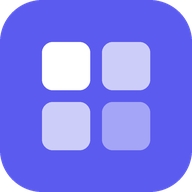
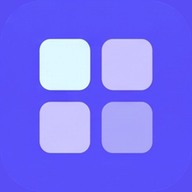
Atelier 3.1.1 : nouvelles icônes

diff --git a/index.html b/index.html
@@ -8,7 +8,7 @@
 <meta name="theme-color" content="#0b0d12" media="(prefers-color-scheme: dark)">
 <meta name="theme-color" content="#f6f7fb" media="(prefers-color-scheme: light)">
 <link rel="manifest" href="manifest.webmanifest">
-<link rel="icon" href="icon.svg" type="image/svg+xml">
+<link rel="icon" href="favicon.png" type="image/png">
 <link rel="apple-touch-icon" href="icon-180.png">
 <link rel="preconnect" href="https://api.github.com">
 <link rel="preconnect" href="https://generativelanguage.googleapis.com">
@@ -120,7 +120,10 @@ main{max-width:1180px;margin:0 auto;padding:4px 16px calc(env(safe-area-inset-bo
 .green{background:var(--ok)}.orange{background:var(--wa)}.red{background:var(--ko)}.grey{background:var(--gr)}
 .av{flex:none;width:44px;height:44px;border-radius:13px;display:grid;place-items:center;font-size:24px;background:color-mix(in srgb,var(--c,#5b5bf0) 16%,var(--s1));border:1px solid color-mix(in srgb,var(--c,#5b5bf0) 25%,transparent)}
 .av.s{width:28px;height:28px;border-radius:8px;font-size:15px}
+.av.xs{width:18px;height:18px;border-radius:5px;font-size:11px;display:inline-grid;vertical-align:-4px;box-shadow:none}
 .av.l{width:56px;height:56px;border-radius:16px;font-size:30px}
+.av.img{background:none;border:0;overflow:hidden;box-shadow:0 2px 8px rgba(16,24,40,.18)}
+.av.img img{width:100%;height:100%;display:block;border-radius:inherit}
 label.f{display:block;font-size:13px;font-weight:550;color:var(--tx2);margin:14px 0 6px}
 input,select,textarea{width:100%;font:inherit;font-size:16px;color:var(--tx);background:var(--s2);border:1px solid var(--bd);border-radius:12px;padding:11px 13px;transition:border-color .15s,box-shadow .15s}
 input:focus,select:focus,textarea:focus{outline:0;border-color:var(--ac);box-shadow:0 0 0 3px color-mix(in srgb,var(--ac) 22%,transparent)}
@@ -335,7 +338,7 @@ details[open]>summary::before{transform:rotate(90deg)}
 <div id="onb" hidden></div>
 <div id="shell">
   <aside id="side">
-    <div class="brand"><img src="icon.svg" alt=""><div><b>Atelier</b><small id="sideCloud"></small></div></div>
+    <div class="brand"><img src="icones/atelier.png" alt=""><div><b>Atelier</b><small id="sideCloud"></small></div></div>
     <button class="btn primary block" data-action="capture"><svg class="i"><use href="#i-plus"/></svg>Nouvelle idée</button>
     <button class="searchbtn" data-action="palette"><svg class="i s"><use href="#i-search"/></svg>Rechercher…<span class="kbd" id="kbdK">Ctrl K</span></button>
     <div class="snav" id="snav"></div>
@@ -400,7 +403,7 @@ details[open]>summary::before{transform:rotate(90deg)}
 <script src="lib/qrcode.js"></script>
 <script>
 "use strict";
-const VERSION = '3.1.0';
+const VERSION = '3.1.1';
 /* ================================================================
    Utilitaires
 ================================================================ */
@@ -473,9 +476,9 @@ const spin = t => `<span class="spinner"></span>${t ? esc(t) : ''}`;
 ================================================================ */
 const COULEURS = ['#f59e0b','#0ea5e9','#10b981','#8b5cf6','#ef4444','#ec4899','#14b8a6','#6366f1'];
 const APPS_DEFAUT = [
-  {name:'Révisions', repo:'oiriaure/revisions', emoji:'📚', couleur:'#f59e0b', donnees:'', etat:''},
-  {name:'Boussole', repo:'oiriaure/boussole', emoji:'🧭', couleur:'#0ea5e9', donnees:'oiriaure/boussole-donnees', etat:'telephone/etat.json'},
-  {name:'Trousseau', repo:'oiriaure/trousseau', emoji:'🔑', couleur:'#10b981', donnees:'', etat:''}
+  {name:'Révisions', repo:'oiriaure/revisions', emoji:'📚', icone:'icones/revisions.png', couleur:'#a855f7', donnees:'', etat:''},
+  {name:'Boussole', repo:'oiriaure/boussole', emoji:'🧭', icone:'icones/boussole.png', couleur:'#14b8a6', donnees:'oiriaure/boussole-donnees', etat:'telephone/etat.json'},
+  {name:'Trousseau', repo:'oiriaure/trousseau', emoji:'🔑', icone:'icones/trousseau.png', couleur:'#3b5bfd', donnees:'', etat:''}
 ];
 let L = Object.assign({ghToken:'', geminiKey:'', device:'', cloud:'oiriaure/atelier-donnees', nomAppareil:''}, LS.get('atelier.local', {}));
 if(!L.device) L.device = 'd' + Date.now().toString(36) + Math.random().toString(36).slice(2,7);
@@ -503,7 +506,9 @@ const get = (k, d) => SH[k] ? SH[k].v : d;
 function put(k, v){ SH[k] = {t:Date.now(), v}; saveSH(); Cloud.schedule(); }
 const REG = () => Object.assign({apps:APPS_DEFAUT, model:'auto', vitesse:'equilibre', prenom:''}, get('reglages', {}));
 const setReg = patch => put('reglages', Object.assign(REG(), patch));
-const appsAll = () => REG().apps || [];
+const ICONES = {'oiriaure/revisions':'icones/revisions.png', 'oiriaure/boussole':'icones/boussole.png', 'oiriaure/trousseau':'icones/trousseau.png'};
+const COUL_V3 = {'oiriaure/revisions':['#f59e0b','#a855f7'], 'oiriaure/boussole':['#0ea5e9','#14b8a6'], 'oiriaure/trousseau':['#10b981','#3b5bfd']};
+const appsAll = () => (REG().apps || []).map(a => { const x = Object.assign({}, a); if(!x.icone && ICONES[x.repo]) x.icone = ICONES[x.repo]; const c = COUL_V3[x.repo]; if(c && (!x.couleur || x.couleur === c[0])) x.couleur = c[1]; return x; });
 const tracked = () => appsAll().filter(a => validRepo(a.repo));
 const appBy = repo => appsAll().find(a => a.repo === repo) || {name:repo, emoji:'📦', repo, couleur:'#6366f1'};
 const aiOf = repo => (get('ai', {})[repo] || {});
@@ -1076,7 +1081,7 @@ function serie(){
   return n;
 }
 const nbTaches = () => tracked().reduce((n, a) => n + (C.apps[a.repo]?.issues||[]).length, 0);
-const avatar = (a, cls='') => `<span class="av ${cls}" style="--c:${esc(a.couleur||'#6366f1')}">${esc(a.emoji)}</span>`;
+const avatar = (a, cls='') => (a.icone || ICONES[a.repo]) ? `<span class="av img ${cls}"><img src="${esc(a.icone || ICONES[a.repo])}" alt="${esc(a.name||'')}" loading="lazy"></span>` : `<span class="av ${cls}" style="--c:${esc(a.couleur||'#6366f1')}">${esc(a.emoji)}</span>`;
 function salut(){ const h = new Date().getHours(), p = REG().prenom; return (h < 5 ? 'Bonne nuit' : h < 18 ? 'Bonjour' : 'Bonsoir') + (p ? ' ' + p : ''); }
 function cloudEtat(){
   if(!Cloud.on()) return {ic:'cloudx', txt:'Cloud non connecté', cls:'muted'};
@@ -1151,7 +1156,7 @@ function vToday(){
       ${(C.pending||[]).length ? `<section class="card"><b>${plural(C.pending.length, 'idée')} en attente d'envoi</b><div class="sm muted">Envoi automatique dès le retour du réseau.</div></section>` : ''}
       <section class="card">
         <div class="hd"><h2>${ic('git')} Activité récente</h2></div>
-        ${first ? '<div class="skel"></div><div class="skel" style="width:70%"></div><div class="skel"></div>' : `<div class="feed">${allCommits().slice(0,6).map(c => `<a class="fi" href="${esc(c.url)}" target="_blank" rel="noopener">${avatar({emoji:c.emoji, couleur:c.c}, 's')}<span class="tx"><b>${esc(c.app)}</b> <span class="sm">${esc(c.msg)}</span></span><span class="when">${esc(ago(c.date))}</span></a>`).join('') || '<p class="muted sm">Aucune activité pour l\'instant.</p>'}</div>`}
+        ${first ? '<div class="skel"></div><div class="skel" style="width:70%"></div><div class="skel"></div>' : `<div class="feed">${allCommits().slice(0,6).map(c => `<a class="fi" href="${esc(c.url)}" target="_blank" rel="noopener">${avatar({emoji:c.emoji, couleur:c.c, repo:c.repo, name:c.app}, 's')}<span class="tx"><b>${esc(c.app)}</b> <span class="sm">${esc(c.msg)}</span></span><span class="when">${esc(ago(c.date))}</span></a>`).join('') || '<p class="muted sm">Aucune activité pour l\'instant.</p>'}</div>`}
       </section>
     </div>
   </div>`;
@@ -1191,10 +1196,10 @@ function vTasks(){
       <input id="tq" placeholder="Filtrer les tâches…" value="${esc(TF.q)}" style="flex:1;min-width:180px" type="search">
       <button class="btn primary desk-only" data-action="capture">${ic('plus','s')} Nouvelle tâche</button>
     </div>
-    <div class="chips" style="margin-bottom:12px"><button class="chip ${TF.app === 'all' ? 'on' : ''}" data-tf="all">Toutes · ${all.length}</button>${apps.map(a => `<button class="chip ${TF.app === a.repo ? 'on' : ''}" data-tf="${esc(a.repo)}">${esc(a.emoji)} ${esc(a.name)} · ${(C.apps[a.repo]?.issues||[]).length}</button>`).join('')}</div>
+    <div class="chips" style="margin-bottom:12px"><button class="chip ${TF.app === 'all' ? 'on' : ''}" data-tf="all">Toutes · ${all.length}</button>${apps.map(a => `<button class="chip ${TF.app === a.repo ? 'on' : ''}" data-tf="${esc(a.repo)}">${avatar(a,'xs')} ${esc(a.name)} · ${(C.apps[a.repo]?.issues||[]).length}</button>`).join('')}</div>
     ${errs.map(a => `<p class="err">${esc(a.name)} : ${esc(C.apps[a.repo]?.issuesErr || 'les Issues sont désactivées sur ce dépôt')}</p>`).join('')}
     ${list.map(i => `<div class="trow" style="--c:${esc(i.a.couleur)}"><span class="bar"></span>
-      <div class="tt">${esc(i.title)}<span class="meta">${esc(i.a.emoji)} ${esc(i.a.name)} · <a href="${esc(i.url)}" target="_blank" rel="noopener">#${i.number}</a> · ${esc(ago(i.created))}${i.labels.map(l => ` · ${esc(l)}`).join('')}</span></div>
+      <div class="tt">${esc(i.title)}<span class="meta">${avatar(i.a,'xs')} ${esc(i.a.name)} · <a href="${esc(i.url)}" target="_blank" rel="noopener">#${i.number}</a> · ${esc(ago(i.created))}${i.labels.map(l => ` · ${esc(l)}`).join('')}</span></div>
       <div class="acts"><button class="ibtn" data-action="issuePrompt" data-repo="${esc(i.a.repo)}" data-n="${i.number}" title="Consigne pour Claude" aria-label="Consigne pour Claude">${ic('brain')}</button>
       <button class="ibtn" data-action="closeIssue" data-repo="${esc(i.a.repo)}" data-n="${i.number}" title="Marquer comme fait" aria-label="Marquer comme fait">${ic('check')}</button></div></div>`).join('')
       || empty('🎉', filtre ? 'Rien ne correspond' : 'Rien à faire', filtre ? 'Change le filtre.' : 'Ajoute une idée avec le bouton +.')}`;
@@ -1230,7 +1235,7 @@ function fil(d){
       ${d.id ? `<button class="ibtn phone-only" data-action="discMenu" aria-label="Options de la discussion">⋯</button>` : ''}
       ${d.id ? `<button class="ibtn desk-only" data-action="discPin" title="${d.epingle ? 'Désépingler' : 'Épingler'}" aria-label="Épingler">${ic('pin','s')}</button><button class="ibtn desk-only" data-action="discRename" title="Renommer" aria-label="Renommer">${ic('edit','s')}</button><button class="ibtn desk-only" data-action="discDel" title="Supprimer" aria-label="Supprimer">${ic('trash','s')}</button>` : ''}
     </div>
-    ${d.msgs.length ? '' : `<div class="empty" style="padding:18px 8px 6px"><div class="big">${a ? esc(a.emoji) : '✦'}</div><h3>${a ? 'Parlons de ' + esc(a.name) : 'Que veux-tu savoir ?'}</h3><p>${a ? 'Le chef connaît son cerveau, ses tâches, ses commits et l\'état de sa synchro.' : 'Le chef connaît toutes tes apps et l\'état de leurs synchros.'}</p></div>
+    ${d.msgs.length ? '' : `<div class="empty" style="padding:18px 8px 6px"><div class="big">${a ? avatar(a,'l') : '✦'}</div><h3>${a ? 'Parlons de ' + esc(a.name) : 'Que veux-tu savoir ?'}</h3><p>${a ? 'Le chef connaît son cerveau, ses tâches, ses commits et l\'état de sa synchro.' : 'Le chef connaît toutes tes apps et l\'état de leurs synchros.'}</p></div>
       <div class="sugg">${(a ? suggApp(a) : SUGG).map(q => `<button data-action="ask" data-q="${esc(q)}">${esc(q)}</button>`).join('')}</div>`}
     <div class="chat">${d.msgs.map((m, i) => bulle(m, i, i === d.msgs.length - 1)).join('')}${busy.chat === d.id ? `<div class="msg m" id="chatLive">${spin('')}</div>` : ''}</div>
   </section>
@@ -1272,7 +1277,7 @@ function vSync(){
   return `<section class="banner ${ban.cls}"><div class="bic">${ic(ban.ic)}</div><div style="flex:1;min-width:0"><b>${esc(ban.t)}</b><div class="sm muted">${esc(ban.d)}</div>
       <div class="xs muted" style="margin-top:4px">${busy.verif ? spin(' Vérification en cours…') : s ? `<span class="pulse"></span>Vérifié ${esc(ago(s.at))} · automatiquement toutes les 5 min` : ''}</div></div>
       <button class="btn sm" data-action="verifier" ${busy.verif ? 'disabled' : ''}>${ic('sync','s')} Vérifier</button></section>
-    <div class="sgrid">${tracked().map(a => carteSante(a.name, avatar(a), s?.apps?.[a.repo], a.repo, a.couleur)).join('')}${carteSante('Atelier', '<span class="av" style="--c:#6366f1"><img src="icon.svg" alt="" style="width:26px;height:26px;border-radius:7px"></span>', s?.atelier, 'atelier', '#6366f1')}</div>
+    <div class="sgrid">${tracked().map(a => carteSante(a.name, avatar(a), s?.apps?.[a.repo], a.repo, a.couleur)).join('')}${carteSante('Atelier', '<span class="av img"><img src="icones/atelier.png" alt="Atelier"></span>', s?.atelier, 'atelier', '#6366f1')}</div>
     <section class="card"><div class="hd"><h2>${ic('alert')} Journal des incidents</h2>${inc.length ? '<button class="btn sm ghost" data-action="clearInc">Vider</button>' : ''}</div>
       ${inc.length ? `<div class="feed">${inc.slice(0, 20).map(x => `<div class="fi"><span class="sic ${x.fin ? 'ok' : x.statut === 'pb' ? 'pb' : 'att'}">${ic(x.fin ? 'check' : x.statut === 'pb' ? 'x' : 'alert','s')}</span><span class="tx sm"><b>${esc(nomApp(x.app))}</b> · ${esc(x.nom)}<br><span class="muted">${esc(x.msg)}</span></span><span class="when">${x.fin ? 'réglé · a duré ' + esc(dureeTxt(x.fin - x.debut)) : 'en cours · ' + esc(ago(x.debut))}</span></div>`).join('')}</div>` : '<p class="muted sm" style="margin:0">Aucun incident enregistré. Chaque problème détecté apparaîtra ici avec sa durée, sur tous tes appareils.</p>'}
     </section>`;
@@ -1365,7 +1370,7 @@ function vSettings(){
 ================================================================ */
 function showOnboarding(step=1){
   const o = $('#onb'); o.hidden = false;
-  o.innerHTML = `<div class="box"><img src="icon.svg" alt="">
+  o.innerHTML = `<div class="box"><img src="icones/atelier.png" alt="">
     <h1>${step === 1 ? 'Bienvenue dans Atelier' : 'Presque fini'}</h1>
     <p>${step === 1 ? 'Tous tes projets d\'apps au même endroit, sur tous tes appareils.' : 'Ajoute la clé Gemini pour activer le chef de projet.'}</p>
     <div class="card">
@@ -1473,7 +1478,7 @@ JSON strict : {"taches":[{"repo":"pseudo/depot","titre":"…","corps":"…"}]}`,
   if(!TASK_DRAFT.length) throw new Error('Aucune tâche concrète trouvée');
   SHEET = null;
   modal(`<h2>Tâches proposées</h2><p class="muted sm">Coche celles à créer.</p>
-    ${TASK_DRAFT.map((t, i) => `<label class="chk card" style="margin:8px 0"><input type="checkbox" data-td="${i}" checked><span><b>${esc(appBy(t.repo).emoji)} ${esc(t.titre)}</b><br><span class="sm muted">${esc(t.corps)}</span></span></label>`).join('')}
+    ${TASK_DRAFT.map((t, i) => `<label class="chk card" style="margin:8px 0"><input type="checkbox" data-td="${i}" checked><span><b>${avatar(appBy(t.repo),'xs')} ${esc(t.titre)}</b><br><span class="sm muted">${esc(t.corps)}</span></span></label>`).join('')}
     <div class="btns"><button class="btn primary" data-action="createDraft">Créer les tâches cochées</button></div>`);
 }
 
@@ -1737,7 +1742,7 @@ JSON strict : {"resume":"2 phrases","actions":[{"app":"nom","repo":"pseudo/depot
     modal(`<h2>Nouvelle idée</h2>
       <textarea id="capText" rows="4" placeholder="Ex : dans Révisions, ajouter un chrono au QCM"></textarea>
       <label class="f">App</label>
-      <select id="capApp">${L.geminiKey && !pre ? '<option value="auto">✦ Le chef choisit</option>' : ''}${apps.map(a => `<option value="${esc(a.repo)}" ${pre === a.repo ? 'selected' : ''}>${esc(a.emoji)} ${esc(a.name)}</option>`).join('')}</select>
+      <select id="capApp">${L.geminiKey && !pre ? '<option value="auto">✦ Le chef choisit</option>' : ''}${apps.map(a => `<option value="${esc(a.repo)}" ${pre === a.repo ? 'selected' : ''}>${esc(a.name)}</option>`).join('')}</select>
       ${L.geminiKey ? '<label class="chk" style="margin-top:12px"><input type="checkbox" id="capAI" checked> Reformuler en tâche claire</label>' : ''}
       <div class="btns"><button class="btn primary" data-action="sendCapture" id="capBtn">Ajouter</button><span class="xs muted desk-only" style="align-self:center">Ctrl+Entrée</span></div>`);
     setTimeout(() => $('#capText')?.focus(), 60);

diff --git a/sw.js b/sw.js
@@ -1,6 +1,6 @@
 // Atelier — service worker : l'app s'ouvre même sans réseau.
-const CACHE = 'atelier-v5';
-const SHELL = ['./', './index.html', './manifest.webmanifest', './icon.svg', './icon-180.png', './icon-192.png', './icon-512.png', './lib/qrcode.js'];
+const CACHE = 'atelier-v6';
+const SHELL = ['./', './index.html', './manifest.webmanifest', './icon-180.png', './icon-192.png', './icon-512.png', './lib/qrcode.js', './favicon.png', './icones/atelier.png', './icones/revisions.png', './icones/boussole.png', './icones/trousseau.png'];
 self.addEventListener('install', e => { e.waitUntil(caches.open(CACHE).then(c => c.addAll(SHELL))); self.skipWaiting(); });
 self.addEventListener('activate', e => {
   e.waitUntil(caches.keys().then(ks => Promise.all(ks.filter(k => k !== CACHE).map(k => caches.delete(k)))));
